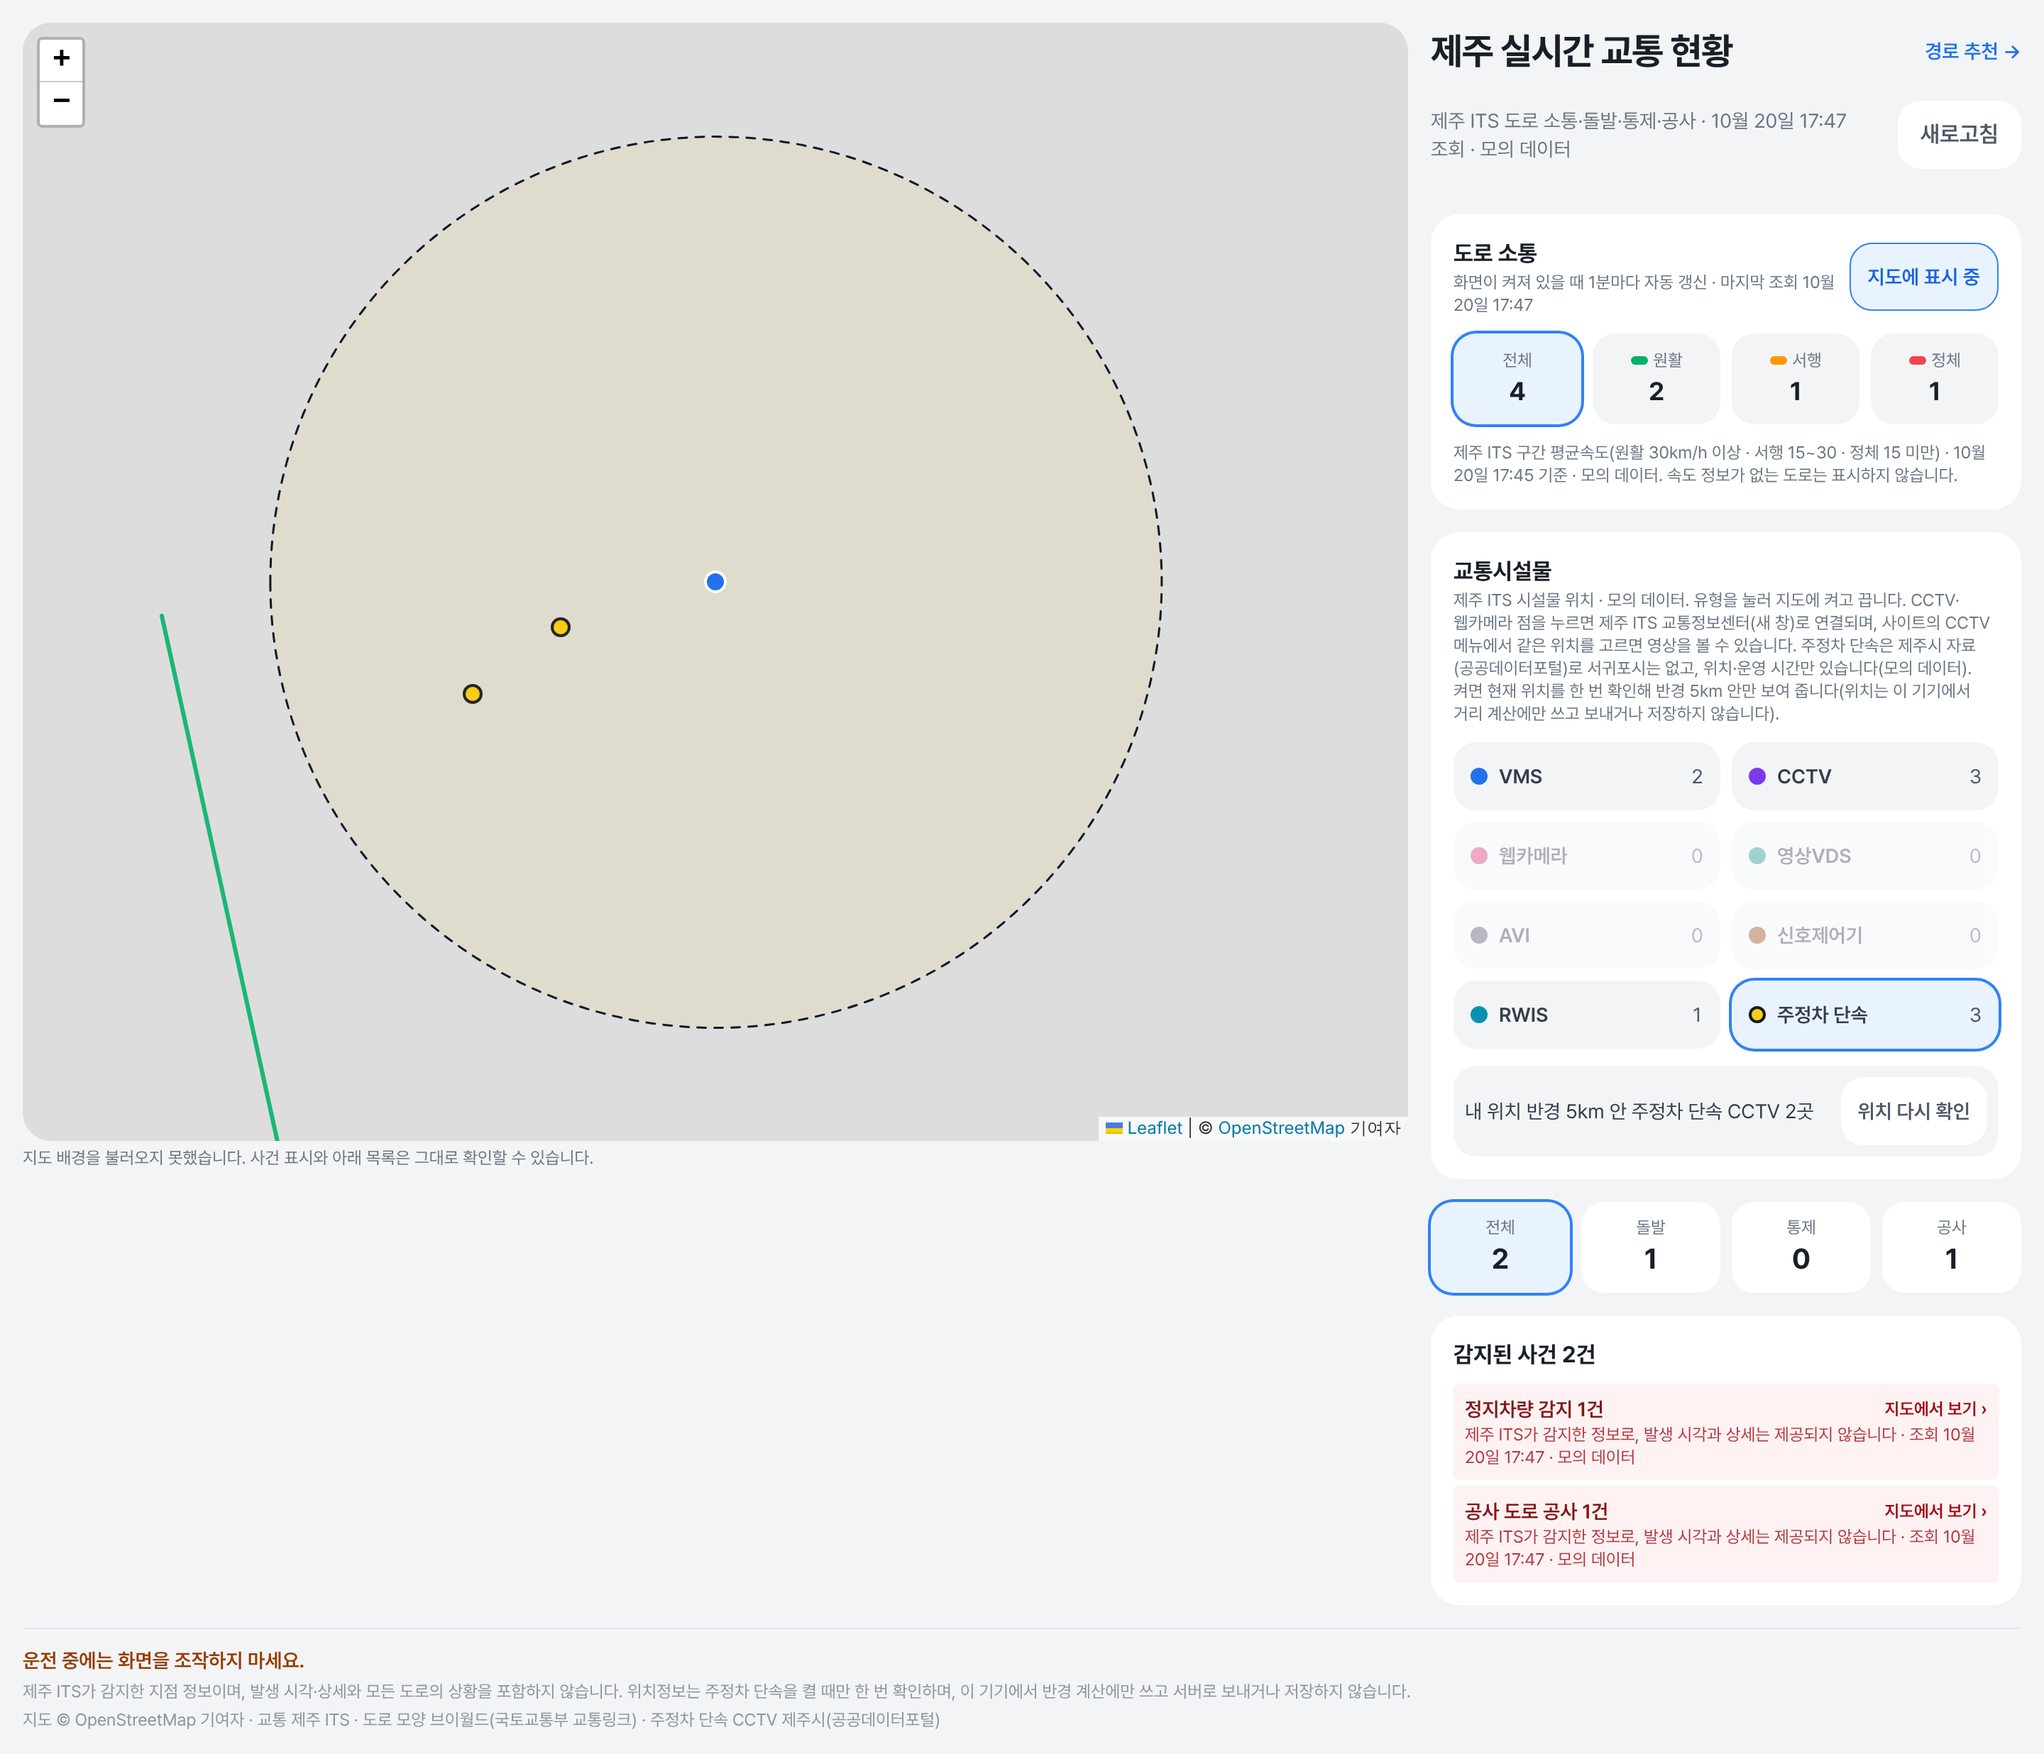
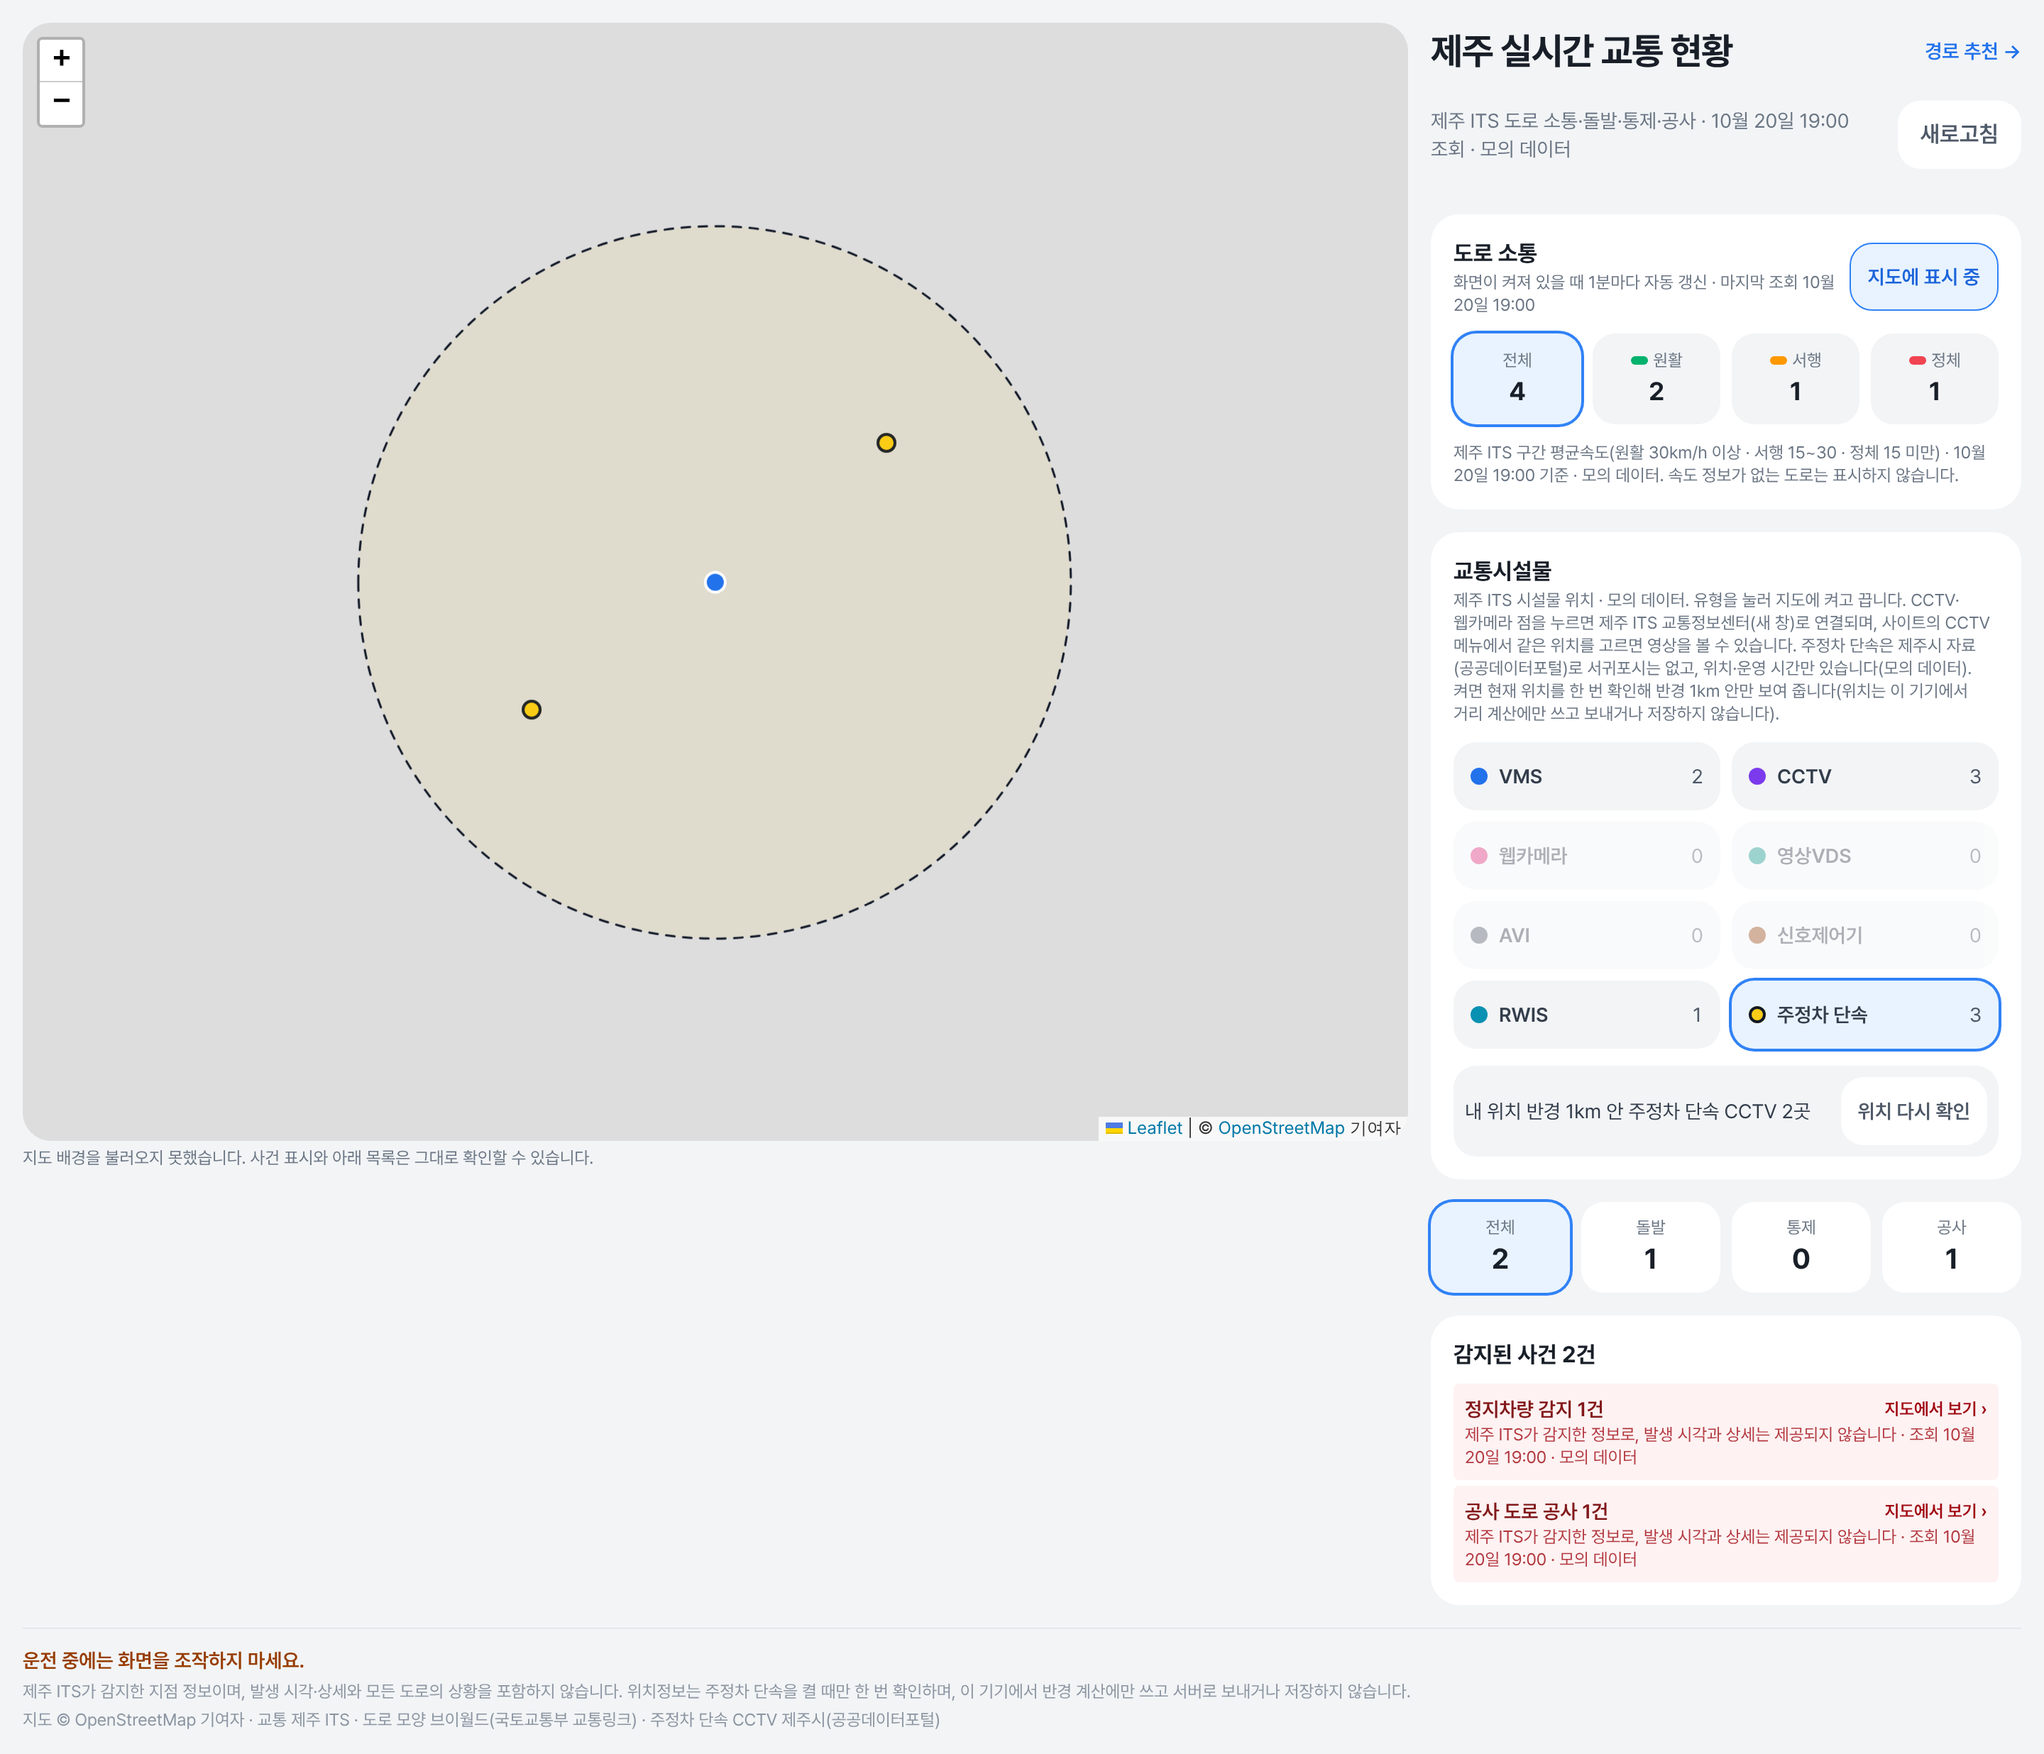
TASK-016: 주정차 단속 반경 1km로 (사용자 "주정차단속 반경을 1키로로 수정")
- 위치 정확도 기준 200m로 함께 조정

Claude-Session: https://claude.ai/code/session_01Gur3aDTQeZh8Paf8Wfb4kJ

diff --git a/jeju-ai-traffic/web/src/features/traffic/TrafficDashboard.tsx b/jeju-ai-traffic/web/src/features/traffic/TrafficDashboard.tsx
@@ -26,10 +26,11 @@ const SPEED_ORDER: SpeedStatus[] = ["smooth", "slow", "congested"];
 /** 도로 목록을 한 번에 보여 줄 개수. */
 const ROAD_PAGE = 20;
 
-/** 주정차 단속은 내 위치 반경 안만 보인다(TASK-016, 사용자 "반경 5키로"). */
-export const ENFORCEMENT_RADIUS_METERS = 5000;
-/** 반경 5km 조회라 경로 추천(200m)보다 느슨하게 받는다. */
-const ENFORCEMENT_LOCATION_ACCURACY_METERS = 1000;
+/** 주정차 단속은 내 위치 반경 안만 보인다(TASK-016, 사용자 "반경을 1키로로 수정"). */
+export const ENFORCEMENT_RADIUS_METERS = 1000;
+const RADIUS_TEXT = `${ENFORCEMENT_RADIUS_METERS / 1000}km`;
+/** 반경 1km라 경로 추천과 같은 정확도 기준(200m)으로 받는다. */
+const ENFORCEMENT_LOCATION_ACCURACY_METERS = 200;
 
 /** 실시간 정체·서행구간을 한 번에 보여 줄 줄 수(TASK-015). */
 const CHAIN_PAGE = 20;
@@ -567,7 +568,7 @@ export function TrafficDashboard() {
             </h2>
             <p className="text-xs text-grey-600">
               제주 ITS 시설물 위치{facilities?.source === "mock" && " · 모의 데이터"}. 유형을 눌러 지도에 켜고 끕니다. CCTV·웹카메라 점을 누르면 제주 ITS 교통정보센터(새 창)로 연결되며, 사이트의 CCTV 메뉴에서 같은 위치를 고르면 영상을 볼 수 있습니다. 주정차 단속은
-              제주시 자료(공공데이터포털)로 서귀포시는 없고, 위치·운영 시간만 있습니다{enforcement?.source === "mock" && "(모의 데이터)"}. 켜면 현재 위치를 한 번 확인해 반경 5km 안만 보여 줍니다(위치는 이 기기에서 거리 계산에만 쓰고 보내거나
+              제주시 자료(공공데이터포털)로 서귀포시는 없고, 위치·운영 시간만 있습니다{enforcement?.source === "mock" && "(모의 데이터)"}. 켜면 현재 위치를 한 번 확인해 반경 {RADIUS_TEXT} 안만 보여 줍니다(위치는 이 기기에서 거리 계산에만 쓰고 보내거나
               저장하지 않습니다).
             </p>
           </div>
@@ -623,8 +624,8 @@ export function TrafficDashboard() {
                 {locating || !myLocation
                   ? "현재 위치 확인 중…"
                   : nearbyCount > 0
-                    ? `내 위치 반경 5km 안 주정차 단속 CCTV ${nearbyCount.toLocaleString("ko-KR")}곳`
-                    : "내 위치 반경 5km 안에 주정차 단속 CCTV가 없습니다(제주시 자료만 있음)."}
+                    ? `내 위치 반경 ${RADIUS_TEXT} 안 주정차 단속 CCTV ${nearbyCount.toLocaleString("ko-KR")}곳`
+                    : `내 위치 반경 ${RADIUS_TEXT} 안에 주정차 단속 CCTV가 없습니다(제주시 자료만 있음).`}
               </span>
               {myLocation && !locating && (
                 <button type="button" onClick={() => void locate()} className="min-h-12 shrink-0 rounded-2xl bg-white px-3 font-semibold text-grey-700">

diff --git a/jeju-ai-traffic/tests/unit/TrafficDashboard.test.tsx b/jeju-ai-traffic/tests/unit/TrafficDashboard.test.tsx
@@ -322,8 +322,8 @@ describe("교통 현황 대시보드 (TASK-012)", () => {
     expect(map.getAttribute("data-facilities")).toBe("1");
   });
 
-  it("주정차 단속 CCTV(TASK-016): 교통시설물 카드의 한 유형, 기본 꺼짐. 켜면 현재 위치를 확인해 반경 5km 안만 지도에", async () => {
-    const ask = stubLocation({ lat: 33.5, lng: 126.53 });
+  it("주정차 단속 CCTV(TASK-016): 교통시설물 카드의 한 유형, 기본 꺼짐. 켜면 현재 위치를 확인해 반경 1km 안만 지도에", async () => {
+    const ask = stubLocation({ lat: 33.502, lng: 126.536 });
     render(<TrafficDashboard />);
     const list = await screen.findByRole("list", { name: "교통시설물 유형" });
     const enf = await within(list).findByRole("button", { name: /주정차 단속2/ });
@@ -331,11 +331,11 @@ describe("교통 현황 대시보드 (TASK-012)", () => {
     expect(ask).not.toHaveBeenCalled();
     const map = screen.getByRole("region", { name: "교통 현황 지도" });
     fireEvent.click(enf);
-    expect(await screen.findByText("내 위치 반경 5km 안 주정차 단속 CCTV 2곳")).toBeTruthy();
+    expect(await screen.findByText("내 위치 반경 1km 안 주정차 단속 CCTV 2곳")).toBeTruthy();
     expect(map.getAttribute("data-facilities")).toBe("2");
     expect(map.getAttribute("data-nearby")).toBe("1");
     expect(ask).toHaveBeenCalledTimes(1);
-    expect(screen.getByText(/켜면 현재 위치를 한 번 확인해 반경 5km 안만/)).toBeTruthy();
+    expect(screen.getByText(/켜면 현재 위치를 한 번 확인해 반경 1km 안만/)).toBeTruthy();
     // 끄고 다시 켜면 위치를 다시 묻지 않는다(위치 다시 확인 버튼으로만)
     fireEvent.click(enf);
     expect(map.getAttribute("data-nearby")).toBe("0");
@@ -350,7 +350,7 @@ describe("교통 현황 대시보드 (TASK-012)", () => {
     render(<TrafficDashboard />);
     const list = await screen.findByRole("list", { name: "교통시설물 유형" });
     fireEvent.click(await within(list).findByRole("button", { name: /주정차 단속2/ }));
-    expect(await screen.findByText("내 위치 반경 5km 안에 주정차 단속 CCTV가 없습니다(제주시 자료만 있음).")).toBeTruthy();
+    expect(await screen.findByText("내 위치 반경 1km 안에 주정차 단속 CCTV가 없습니다(제주시 자료만 있음).")).toBeTruthy();
     expect(screen.getByRole("region", { name: "교통 현황 지도" }).getAttribute("data-facilities")).toBe("0");
     cleanup();
 

diff --git a/jeju-ai-traffic/tests/unit/geolocation.test.ts b/jeju-ai-traffic/tests/unit/geolocation.test.ts
@@ -29,7 +29,7 @@ describe("getCurrentLocation", () => {
   it("정확도 200m 초과면 inaccurate", async () => {
     const { geo } = fakeGeo({ coords: { ...AIRPORT, accuracy: 201 } });
     expect(await getCurrentLocation(geo)).toEqual({ kind: "inaccurate", accuracyMeters: 201 });
-    // 주정차 단속 반경 조회(TASK-016)는 1,000m까지 받는다
+    // 기준을 인자로 바꿀 수 있다(TASK-016)
     expect((await getCurrentLocation(geo, 1000)).kind).toBe("ok");
   });
 

diff --git a/jeju-ai-traffic/reports/TASK-016-RESULT.md b/jeju-ai-traffic/reports/TASK-016-RESULT.md
@@ -3,6 +3,7 @@
 - 보고일: 2026-10-20 / 실행 주체: Claude
 - 승인 근거: 사용자 "계획 승인: TASK-016 1. (a) 2. (a) 3. 승인 키 등록 완료" (2026-10-20, `DECISIONS.md`)
 - 범위 변경: 사용자 "주정차 단속은 내 위치를 기준으로 반경 5키로내로 조회 할 수 있게" (2026-10-20)
+- 범위 변경: 사용자 "주정차단속 반경을 1키로로 수정" (2026-10-20) — 반경 1km, 위치 정확도 기준 200m
 - 상태: **결과 검토** (완료 승인 대기, `main` 미반영)
 
 ## 1. 변경 파일
@@ -17,7 +18,7 @@
 | `web/src/services/trafficApi.ts` | `fetchTrafficEnforcement` |
 | `web/src/features/traffic/TrafficDashboard.tsx` | 교통시설물 카드에 "주정차 단속" 유형, 불러오기·실패 안내·다시 시도, 출처 문구 |
 | `tests/unit/trafficEnforcement.test.ts`(신규), `TrafficDashboard.test.tsx`, `popup.test.ts`, `quota.test.ts`, `tests/e2e/traffic.spec.ts` | 신규·수정 |
-| `reports/screenshots/TASK-016-01-enforcement.png`, `TASK-016-02-nearby.png` | 주정차 단속 켠 화면(전체 표시 시절), 반경 5km 표시(PC 폭, 모의) |
+| `reports/screenshots/TASK-016-01-enforcement.png`, `TASK-016-02-nearby.png` | 주정차 단속 켠 화면(전체 표시 시절), 반경 1km 표시(PC 폭, 모의) |
 | `web/src/services/geolocation.ts`, `web/src/features/traffic/IncidentMap.tsx` | 위치 정확도 기준을 인자로, 지도에 반경 원·내 위치 점 |
 | `.env.example`, `README.md`, `docs/OPERATIONS.md`, `TASK_STATUS.md`, `tasks/TASK-016.md`, `DECISIONS.md` | 수정 |
 | `api/enforcement-probe.ts` | 시험용 함수 추가 후 삭제(`main`에 들어가지 않음) |
@@ -32,11 +33,11 @@
 ## 3. 구현 요약
 - **위치(1.(a))**: 교통시설물 카드의 8번째 유형 "주정차 단속"(건수 표시). 기본은 꺼짐이고, 누르면 지도에 점이 켜진다.
 - **점 모양(사용자 점검 뒤 변경)**: 처음 검정 점은 AVI(회색)와 구분되지 않았다(Production 휴대폰 캡처, 370곳 표시 확인). 노란 점 + 검정 테두리로 바꾸고 조금 크게 했으며, 카드의 범례 점도 같게 했다.
-- **반경 5km(범위 변경)**: "주정차 단속"을 켜면 다음 순서로 동작한다.
-  1. 현재 위치를 한 번 확인한다(정확도 1,000m 이내, 10초 제한).
-  2. 반경 5km 안 단속 CCTV만 지도에 보인다.
+- **반경 1km(범위 변경, 처음 5km에서 1km로)**: "주정차 단속"을 켜면 다음 순서로 동작한다.
+  1. 현재 위치를 한 번 확인한다(정확도 200m 이내, 10초 제한).
+  2. 반경 1km 안 단속 CCTV만 지도에 보인다.
   3. 반경 원(점선)과 내 위치(파란 점)를 그리고, 원이 보이게 확대한다.
-  4. 카드 아래에 "내 위치 반경 5km 안 주정차 단속 CCTV N곳 / 위치 다시 확인"을 보인다. 없으면 "없습니다(제주시 자료만 있음)"라고 안내한다.
+  4. 카드 아래에 "내 위치 반경 1km 안 주정차 단속 CCTV N곳 / 위치 다시 확인"을 보인다. 없으면 "없습니다(제주시 자료만 있음)"라고 안내한다.
   - 끄고 다시 켜면 위치를 다시 묻지 않는다.
   - 위치 권한 거부·시간 초과·부정확·제주 밖이면 주정차 단속을 끄고 이유를 안내한다.
   - **위치는 이 기기 메모리에서 거리 계산에만 쓰고 서버로 보내거나 저장하지 않는다.** 서버는 계속 제주시 전체 목록을 받아 CDN에 보관한다.
@@ -74,8 +75,8 @@
 - 여러 줄 팝업
 - 반경 5km 필터·반경 밖 안내·위치 권한 거부
 - 끄고 켤 때 위치 재요청 없음
-- 위치 정확도 기준(1,000m)
-- e2e: 위치 허용 상태에서 5km 안 2곳만 표시·원 표시·끄기
+- 위치 정확도 기준을 인자로
+- e2e: 위치 허용 상태에서 1km 안 2곳만 표시·원 표시·끄기
 
 ## 5. 비용·보안
 - 시험 호출은 3건이다. 운영에서는 하루 몇 건 수준(서버 하루·CDN 7일 보관)이고 내부 한도는 500건이다. 비용은 0원이다(무료 API).

diff --git a/jeju-ai-traffic/DECISIONS.md b/jeju-ai-traffic/DECISIONS.md
@@ -194,3 +194,4 @@
 | 2026-10-20 | TASK-016 | 범위 변경 | "주정차 단속은 내 위치를 기준으로 반경 5키로내로 조회 할 수 있게" | 결과 검토 유지 | 주정차 단속을 켜면 현재 위치를 한 번 확인(정확도 1,000m 이내)해 반경 5km 안만 지도에, 반경 원·내 위치 점 표시, "위치 다시 확인". 위치는 브라우저 메모리에서 거리 계산에만 쓰고 서버 전송·저장 없음(서버는 계속 제주시 전체를 받아 CDN 보관). 위치 실패 시 주정차 단속을 끄고 이유 안내. 화면 하단 위치정보 고지 문구 변경 |
 | 2026-10-20 | TASK-016 | 기타 | "푸쉬 다시 해줘" | — | 커밋 `3645634`(반경 5km)는 이미 원격에 있음. Preview 재배포를 위해 기록 커밋으로 다시 푸시 |
 | 2026-10-20 | — | 기타 | "main 반영" | — | 작업 브랜치 `claude/adoring-sagan-harjwg`를 main에 fast-forward로 반영(TASK-016 주정차 단속 내 위치 반경 5km 표시, 위치정보 고지 변경). Production 자동 배포. 임시 확인 함수·워크플로 없음. **TASK-016은 결과 검토 상태 유지**(`완료 승인: TASK-016` 미수신). 실기기 위치 권한·반경 표시는 미확인 |
+| 2026-10-20 | TASK-016 | 범위 변경 | "주정차단속 반경을 1키로로 수정" | 결과 검토 유지 | 반경 5km → 1km. 위치 정확도 기준을 1,000m → 200m(경로 추천과 같은 기준, 반경보다 오차가 크면 의미가 없어서)로 함께 조정 |
